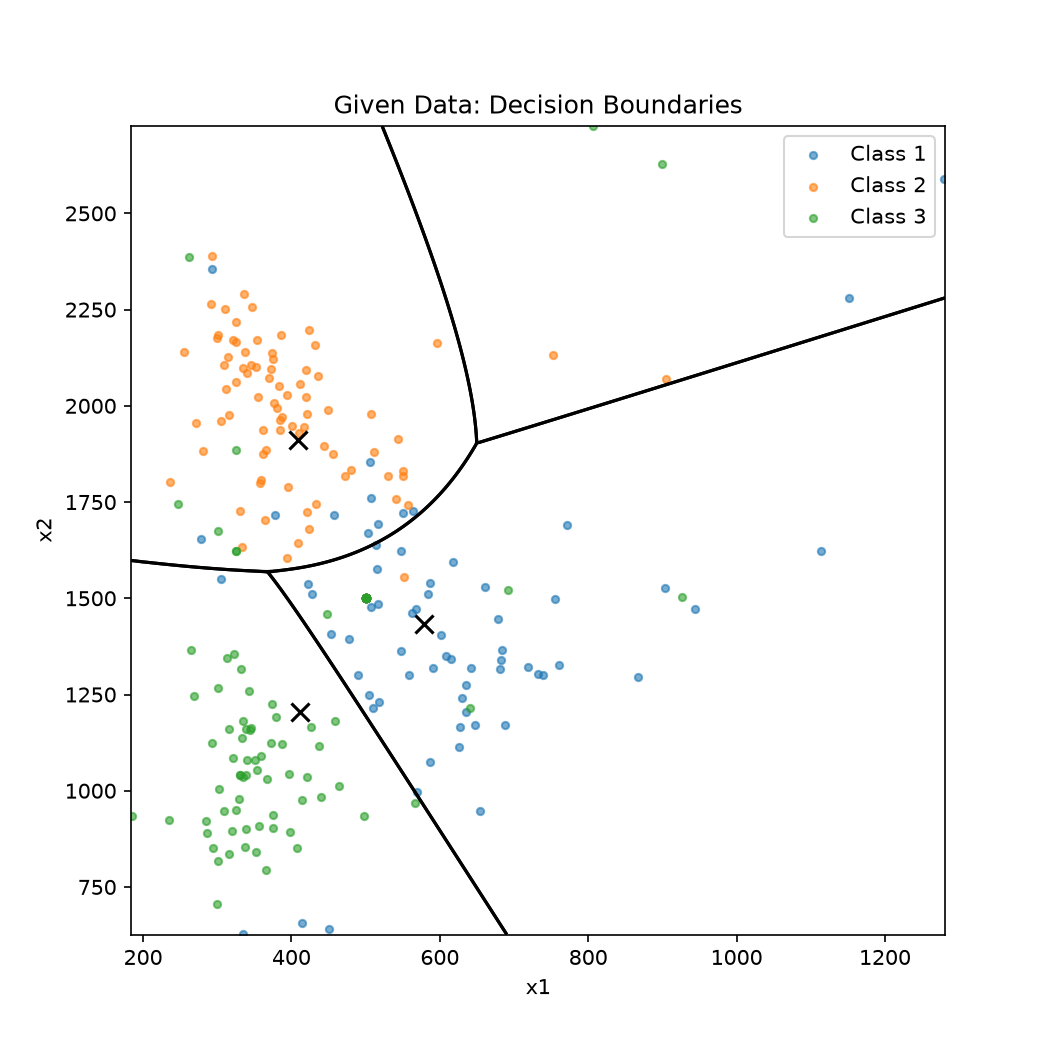
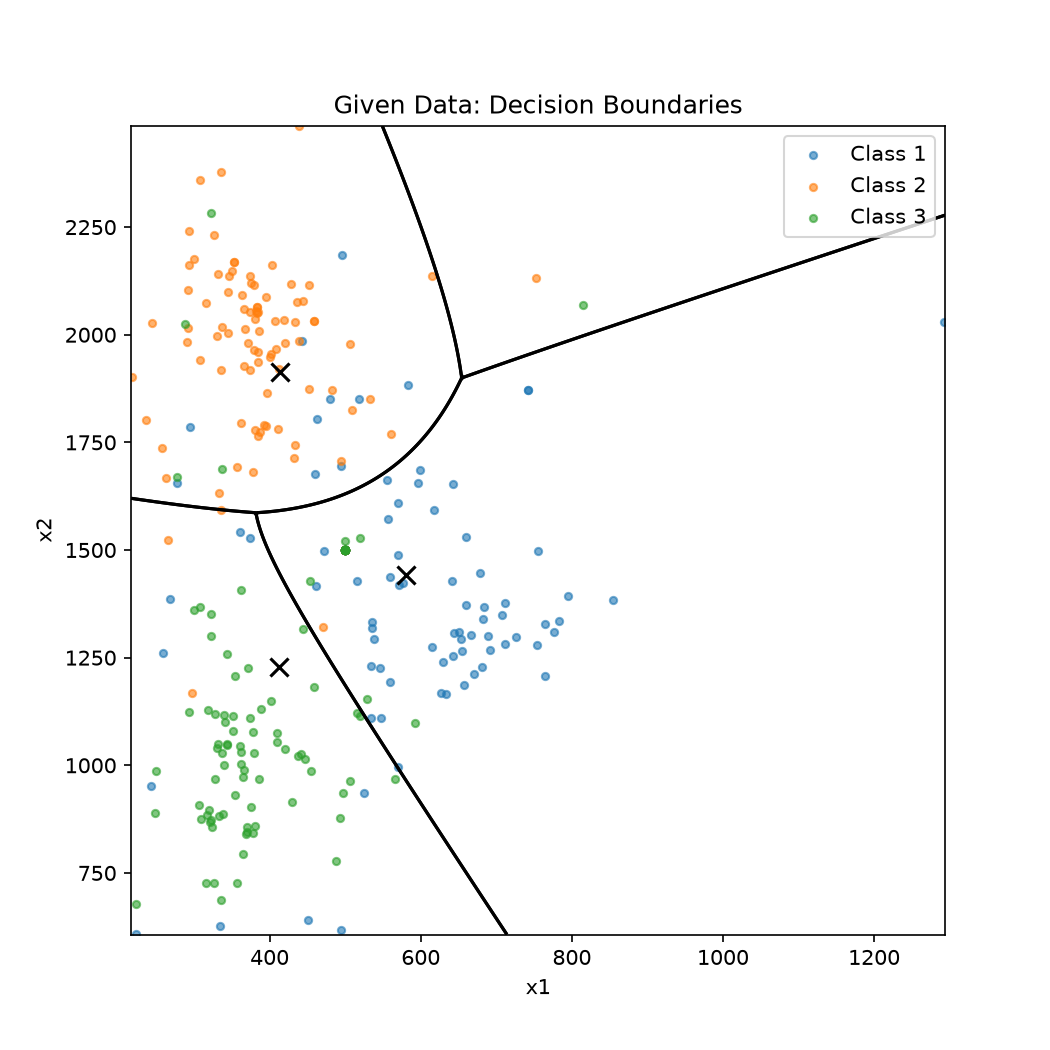
lab5 : re-did the train-test split, took them directly rather than pooling them and shuffling it

diff --git a/docs/lab5/submissions/report.tex b/docs/lab5/submissions/report.tex
@@ -449,7 +449,7 @@ Similarly, here we have full covariance matrix and different covariances for dif
 \begin{figure}[H]
 \centering
 \includegraphics[width=0.69\textwidth]{given_data_boundary.png}
-\caption{Test data and decision boundary. Accuracy: 78.89\%.}
+\caption{Test data and decision boundary. Accuracy: 80.00\%.}
 \end{figure}
 \vspace{3mm}
 \noindent
@@ -462,9 +462,9 @@ Similarly, here we have full covariance matrix and different covariances for dif
 \toprule
 Class & $\hat\mu_{x_1}$ & $\hat\mu_{x_2}$ \\
 \midrule
-1 & 578.48 & 1433.02 \\
-2 & 409.05 & 1911.32 \\
-3 & 411.49 & 1203.90 \\
+1 & 580.62 & 1442.99 \\
+2 & 413.42 & 1914.33 \\
+3 & 412.50 & 1227.98 \\
 \bottomrule
 \end{tabular}
 \end{minipage}%
@@ -478,9 +478,9 @@ Class & $\hat\mu_{x_1}$ & $\hat\mu_{x_2}$ \\
 \toprule
 Class & Estimated \\
 \midrule
-1 & (20593.31, 2077.72, 50878.65) \\
-2 & (12625.58, -8401.60, 48734.42) \\
-3 & (21892.89, 33135.00, 155695.60) \\
+1 & (21843.05, 3347.88, 51710.37) \\
+2 & (13657.83, -9564.81, 47033.19) \\
+3 & (24311.72, 36852.21, 166270.48) \\
 \bottomrule
 \end{tabular}
 \end{minipage}%
@@ -493,15 +493,15 @@ Class & Estimated \\
 \toprule
 T/P & 1 & 2 & 3 \\
 \midrule
-1 & 74 & 10 & 6 \\
-2 & 11 & 77 & 2 \\
-3 & 22 & 6 & 62 \\
+1 & 80 & 10 & 10 \\
+2 & 11 & 85 & 4 \\
+3 & 21 & 4 & 75 \\
 \bottomrule
 \end{tabular}
 \end{minipage}\par
 \vspace{8mm}
 
-Here, we had only very limited number of test points (i.e.) only 90 points for each class and we have a full covariance matrix situation because the off-diagonals are non-zero and The decision boundary is non-linear because different classes they have different covariance matrices and thus the quadratic term survives.
+Here, we had only very limited number of test points (i.e.) only 100 points for each class and we have a full covariance matrix situation because the off-diagonals are non-zero and The decision boundary is non-linear because different classes they have different covariance matrices and thus the quadratic term survives.
 
 
 \clearpage
